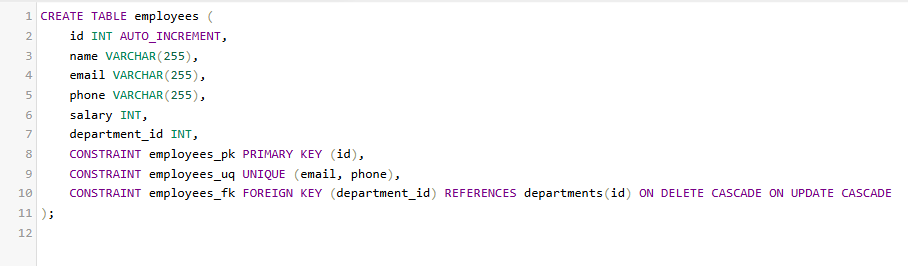
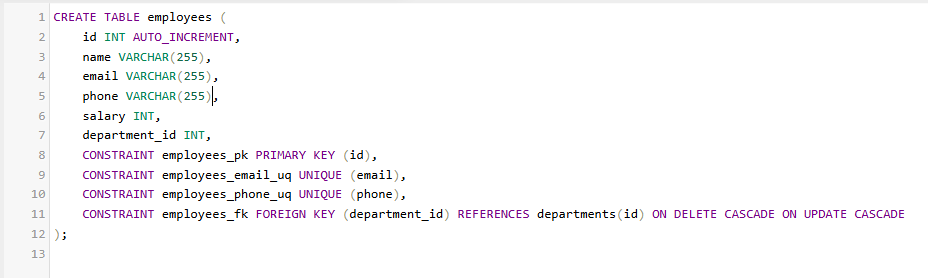
Employees Functionalities [list (in index.php File), Edit, Delete, Add] ==> Done.

Changed region(s): [[0.0, 0.3308, 0.9868, 0.9323], [0.0308, 0.1203, 0.2775, 0.3008], [0.0308, 0.0301, 0.2467, 0.0902]]

diff --git a/employees/edit.php b/employees/edit.php
@@ -1,0 +1,123 @@
+<?php
+// Core
+require_once "C:/xampp/htdocs/BackEnd_Projects/Demo Project/app/dbconfig.php";
+
+// UI
+require_once "C:/xampp/htdocs/BackEnd_Projects/Demo Project/shared/head.php";
+require_once "C:/xampp/htdocs/BackEnd_Projects/Demo Project/shared/navbar.php";
+
+$all_departments = "SELECT * FROM `departments`;";
+$departments = mysqli_query($con, $all_departments);
+
+
+$error_message = '';
+$no_change_message = '';
+if (isset($_GET['edit'])) {
+    $id = $_GET['edit'];
+    // Get Employee Data To Output It, To Be Edited.
+    $select_query = "SELECT * FROM `employees` WHERE `id`=$id;";
+    $select = mysqli_query($con, $select_query);
+    $row = mysqli_fetch_assoc($select);
+    // Update Employee Data
+    if (isset($_POST['update'])) {
+        $name = $_POST['name'];
+        $email = $_POST['email'];
+        $phone = $_POST['phone'];
+        $salary = $_POST['salary'];
+        $department_id = $_POST['department'];
+
+        $update_fields = [];
+        if ($row['name'] !== $name) {
+            $update_fields[] = "`name`='$name'";
+        }
+        if ($row['email'] !== $email) {
+            $update_fields[] = "`email`='$email'";
+        }
+        if ($row['phone'] !== $phone) {
+            $update_fields[] = "`phone`='$phone'";
+        }
+        if ($row['salary'] != $salary) {
+            $update_fields[] = "`salary`=$salary";
+        }
+        if ($row['department_id'] != $department_id) {
+            $update_fields[] = "`department_id`=$department_id";
+        }
+
+        if (!empty($update_fields)) {
+            $update_query = "UPDATE `employees` SET " . implode(", ", $update_fields) . " WHERE `id`=$id;";
+            try {
+                $update = mysqli_query($con, $update_query);
+                path("employees/index.php");
+            } catch (Exception $e) {
+                if (str_contains($e->getMessage(), "employees_email_uq")) {
+                    $error_message = "The Email Address $email Already In Use.";
+                } elseif (str_contains($e->getMessage(), "employees_phone_uq")) {
+                    $error_message = "The Phone Number $phone Already In Use.";
+                }
+                // Re-Fetch Employee Data In Case Of Error. 
+                $select_query = "SELECT * FROM `employees` WHERE `id`=$id;";
+                $select = mysqli_query($con, $select_query);
+                $row = mysqli_fetch_assoc($select);
+            }
+        } else {
+            $no_change_message = "No Changes Where Made.";
+        }
+    }
+}
+
+?>
+
+<!-- Form To Edit Employee -->
+<div class="container col-6 mt-5">
+    <h1 class="text-center text-light">Edit Employee</h1>
+    <?php if (!empty($no_change_message)): ?>
+        <div class="alert alert-success pt-3 pb-3"><?= $no_change_message ?></div>
+    <?php elseif (!empty($error_message)): ?>
+        <div class="alert alert-danger pt-3 pb-3"><?= $error_message ?></div>
+    <?php endif; ?>
+    <!-- Form To Edit Employee Data -->
+    <div class="card bg-dark text-light">
+        <div class="card-body">
+            <form method="POST">
+                <div class="mb-3">
+                    <label for="name" class="form-label">Name:</label>
+                    <input type="text" name="name" id="name" class="form-control" value="<?= $row['name'] ?>">
+                </div>
+                <div class="mb-3">
+                    <label for="email" class="form-label">Email:</label>
+                    <input type="text" name="email" id="email" class="form-control" value="<?= $row['email'] ?>">
+                </div>
+                <div class="mb-3">
+                    <label for="phone" class="form-label">Phone:</label>
+                    <input type="text" name="phone" id="phone" class="form-control" value="<?= $row['phone'] ?>">
+                </div>
+                <div class="mb-3">
+                    <label for="salary" class="form-label">Salary:</label>
+                    <input type="text" name="salary" id="salary" class="form-control" value="<?= $row['salary'] ?>">
+                </div>
+                <div class="mb-3">
+                    <label for="department" class="form-label">Departments:</label>
+                    <select name="department" id="department" class="form-select">
+                        <?php foreach ($departments as $idx => $dep): ?>
+                            <?php if ($row['department_id'] == $dep['id']): ?>
+                                <option selected value="<?= $dep['id'] ?>"><?= $dep['department'] ?></option>
+                            <?php else: ?>
+                                <option value="<?= $dep['id'] ?>"><?= $dep['department'] ?></option>
+                            <?php endif; ?>
+                        <?php endforeach; ?>
+                    </select>
+                </div>
+                <div class="text-center">
+                    <button class="btn btn-warning" name="update">Update</button>
+                </div>
+            </form>
+        </div>
+    </div>
+</div>
+
+<?php
+
+require_once "C:/xampp/htdocs/BackEnd_Projects/Demo Project/shared/scripts.php";
+require_once "C:/xampp/htdocs/BackEnd_Projects/Demo Project/shared/footer.php";
+
+?>

diff --git a/employees/add.php b/employees/add.php
@@ -1,0 +1,88 @@
+<?php
+// Core
+require_once "C:/xampp/htdocs/BackEnd_Projects/Demo Project/app/dbconfig.php";
+
+// UI
+require_once "C:/xampp/htdocs/BackEnd_Projects/Demo Project/shared/head.php";
+require_once "C:/xampp/htdocs/BackEnd_Projects/Demo Project/shared/navbar.php";
+
+// Add Employee
+
+$all_departments = "SELECT * FROM `departments`;";
+$departments = mysqli_query($con, $all_departments);
+
+$success_message = '';
+$error_message = '';
+
+if (isset($_POST['submit'])) {
+    $name = $_POST['name'];
+    $email = $_POST['email'];
+    $phone = $_POST['phone'];
+    $salary = $_POST['salary'];
+    $department_id = $_POST['department'];
+    $insert_query = "INSERT INTO `employees` VALUES (NULL, '$name', '$email', '$phone', $salary, $department_id)";
+    try {
+        $insert = mysqli_query($con, $insert_query);
+        $success_message = "$name Added Successfully.";
+    } catch (Exception $e) {
+        $error_message = $e->getMessage();
+        if (str_contains($error_message, "employees_email_uq")) {
+            $error_message = "The Email Address $email Already In Use.";
+        } elseif (str_contains($error_message, "employees_phone_uq")) {
+            $error_message = "The Phone Number $phone Already In Use.";
+        }
+    }
+}
+
+?>
+
+<div class="container col-6 mt-5">
+    <h1 class="text-center text-light">Add New Employee</h1>
+    <!-- PHP Conditions After Submiting The Form To Output The Message Either Success Or Failing -->
+    <?php if (!empty($success_message)): ?>
+        <div class="alert alert-success pt-3 pb-3"><?= $success_message ?></div>
+    <?php elseif (!empty($error_message)): ?>
+        <div class="alert alert-danger pt-3 pb-3"><?= $error_message ?></div>
+    <?php endif; ?>
+    <!-- Form To Add New Department -->
+    <div class="card bg-dark text-light">
+        <div class="card-body">
+            <form method="POST">
+                <div class="mb-3">
+                    <label for="name" class="form-label">Name:</label>
+                    <input type="text" placeholder="Name" name="name" id="name" class="form-control">
+                </div>
+                <div class="mb-3">
+                    <label for="email" class="form-label">Email:</label>
+                    <input type="email" placeholder="Email" name="email" id="email" class="form-control">
+                </div>
+                <div class="mb-3">
+                    <label for="phone" class="form-label">Phone:</label>
+                    <input type="phone" placeholder="Phone" name="phone" id="phone" class="form-control">
+                </div>
+                <div class="mb-3">
+                    <label for="salary" class="form-label">Salary:</label>
+                    <input type="number" placeholder="Salary" name="salary" id="salary" class="form-control">
+                </div>
+                <div class="mb-3">
+                    <label for="department" class="form-label">Department:</label>
+                    <select name="department" id="department" class="form-select">
+                        <?php foreach ($departments as $dep): ?>
+                            <option value="<?= $dep['id'] ?>"><?= $dep['department'] ?></option>
+                        <?php endforeach; ?>
+                    </select>
+                </div>
+                <div class="text-center">
+                    <button class="btn btn-primary" name="submit">Submit</button>
+                </div>
+            </form>
+        </div>
+    </div>
+</div>
+
+<?php
+
+require_once "C:/xampp/htdocs/BackEnd_Projects/Demo Project/shared/scripts.php";
+require_once "C:/xampp/htdocs/BackEnd_Projects/Demo Project/shared/footer.php";
+
+?>

diff --git a/department/edit.php b/department/edit.php
@@ -8,19 +8,38 @@ require_once "C:/xampp/htdocs/BackEnd_Projects/Demo Project/shared/head.php";
 require_once "C:/xampp/htdocs/BackEnd_Projects/Demo Project/shared/navbar.php";
 
 // Update Department
+$error_message = '';
+$no_change_message = '';
 if (isset($_GET['edit'])) {
-    // Get Requested Department Data
+    // Get Department Data To Output It, To Be Edited.
     $id = $_GET['edit'];
     $select_query = "SELECT * FROM `departments` WHERE `id`=$id;";
     $select = mysqli_query($con, $select_query);
-    $department_name = mysqli_fetch_assoc($select)['department'];
+    $row = mysqli_fetch_assoc($select);
     // Update Department Data
     if (isset($_POST['update'])) {
         $department_name = $_POST['department'];
-        $update_query = "UPDATE `departments` SET `department`='$department_name' WHERE `id`=$id;";
-        $update = mysqli_query($con, $update_query);
-        if ($update) {
-            path("department/index.php");
+        // $update_query = "UPDATE `departments` SET `department`='$department_name' WHERE `id`=$id;";
+
+        $update_fields = [];
+        if ($department_name !== $row['department']) {
+            $update_fields[] = "`department`=$department_name";
+        }
+
+        if (!empty($update_fields)) {
+            $update_query = "UPDATE `departments` SET " . implode(", ", $update_fields) . " WHERE `id`=$id";
+            try {
+                $update = mysqli_query($con, $update_query);
+                path("department/index.php");
+            } catch (Exception $e) {
+                $error_message = "$department_name Department Already Added.";
+                // Re-Fetch Department Data In Case Of Failure
+                $select_query = "SELECT * FROM `departments` WHERE `id`=$id;";
+                $select = mysqli_query($con, $select_query);
+                $department_name = mysqli_fetch_assoc($select)['department'];
+            }
+        } else {
+            $no_change_message = "No Changes Where Made.";
         }
     }
 }
@@ -29,13 +48,18 @@ if (isset($_GET['edit'])) {
 
 <div class="container col-6 mt-5">
     <h1 class="text-center text-light">Update Department</h1>
+    <?php if (!empty($no_change_message)): ?>
+        <div class="alert alert-success pt-3 pb-3"><?= $no_change_message ?></div>
+    <?php elseif (!empty($error_message)): ?>
+        <div class="alert alert-danger pt-3 pb-3"><?= $error_message ?></div>
+    <?php endif; ?>
     <!-- Form To Update Department -->
     <div class="card bg-dark text-light">
         <div class="card-body">
             <form method="POST">
                 <div class="mb-3">
                     <label for="department" class="form-label">Update Department</label>
-                    <input type="text" name="department" id="department" class="form-control" value="<?= $department_name ?>">
+                    <input type="text" placeholder="Department Name" name="department" id="department" class="form-control" value="<?= $row['department'] ?>">
                 </div>
                 <div class="text-center">
                     <button class="btn btn-warning" name="update">Update</button>

diff --git a/employees/index.php b/employees/index.php
@@ -1,0 +1,71 @@
+<?php
+// Core
+require_once "C:/xampp/htdocs/BackEnd_Projects/Demo Project/app/dbconfig.php";
+require_once "C:/xampp/htdocs/BackEnd_Projects/Demo Project/app/functions.php";
+
+// UI
+require_once "C:/xampp/htdocs/BackEnd_Projects/Demo Project/shared/head.php";
+require_once "C:/xampp/htdocs/BackEnd_Projects/Demo Project/shared/navbar.php";
+
+// Deleting A Employee
+if (isset($_GET['delete'])) {
+    $id = $_GET['delete'];
+    $delete_query = "DELETE FROM `employees` WHERE `id` = $id;";
+    $delete = mysqli_query($con, $delete_query);
+    if ($delete) {
+        path("department/index.php");
+    }
+}
+
+
+$select_query = "SELECT * FROM `employees_departments`";
+$select = mysqli_query($con, $select_query);
+
+?>
+
+<div class="container col-10 mt-5">
+    <h1 class="text-center text-light">All Departments</h1>
+    <?php if (!empty($success_message)): ?>
+        <div class="alert alert-success"><?= $success_message ?></div>
+    <?php endif; ?>
+    <div class="card bg-dark text-light">
+        <div class="card-body table-responsive">
+            <table class="table table-dark">
+                <thead>
+                    <tr>
+                        <th>#</th>
+                        <th>Name</th>
+                        <th>Email</th>
+                        <th>Phone</th>
+                        <th>Salary</th>
+                        <th>Department</th>
+                        <th>Action</th>
+                    </tr>
+                </thead>
+                <tbody>
+                    <?php foreach ($select as $index => $emp): ?>
+                        <tr>
+                            <td><?= ($index + 1) ?></td>
+                            <td><?= $emp['name'] ?></td>
+                            <td><?= $emp['email'] ?></td>
+                            <td><?= $emp['phone'] ?></td>
+                            <td><?= $emp['salary'] ?></td>
+                            <td><?= $emp['department'] ?></td>
+                            <td>
+                                <a href="edit.php?edit=<?= $emp['id'] ?>" class="btn btn-warning">Edit</a>
+                                <a href="?delete=<?= $emp['id'] ?>" class="btn btn-danger">Delete</a>
+                            </td>
+                        </tr>
+                    <?php endforeach; ?>
+                </tbody>
+            </table>
+        </div>
+    </div>
+</div>
+
+<?php
+
+require_once "C:/xampp/htdocs/BackEnd_Projects/Demo Project/shared/scripts.php";
+require_once "C:/xampp/htdocs/BackEnd_Projects/Demo Project/shared/footer.php";
+
+?>

diff --git a/department/add.php b/department/add.php
@@ -25,9 +25,9 @@ if (isset($_POST['submit'])) {
 <div class="container col-6 mt-5">
     <h1 class="text-center text-light">Add New Department</h1>
     <!-- PHP Conditions After Submiting The Form To Output The Message Either Success Or Failing -->
-    <?php if (!empty($success_message) && empty($error_message)): ?>
+    <?php if (!empty($success_message)): ?>
         <div class="alert alert-success pt-3 pb-3"><?= $success_message ?></div>
-    <?php elseif (!empty($error_message)  && empty($success_message)): ?>
+    <?php elseif (!empty($error_message)): ?>
         <div class="alert alert-danger pt-3 pb-3"><?= $error_message ?></div>
     <?php endif; ?>
     <!-- Form To Add New Department -->
@@ -36,7 +36,7 @@ if (isset($_POST['submit'])) {
             <form method="POST">
                 <div class="mb-3">
                     <label for="department" class="form-label">Department Name:</label>
-                    <input type="text" name="department" id="department" class="form-control">
+                    <input type="text" placeholder="Department Name" name="department" id="department" class="form-control">
                 </div>
                 <div class="text-center">
                     <button class="btn btn-primary" name="submit">Submit</button>

diff --git a/shared/navbar.php b/shared/navbar.php
@@ -14,7 +14,7 @@ require_once "C:/xampp/htdocs/BackEnd_Projects/Demo Project/app/functions.php";
             <div class="collapse navbar-collapse" id="navbarSupportedContent">
                 <ul class="navbar-nav ms-auto mb-2 mb-lg-0">
                     <li class="nav-item">
-                        <a class="nav-link active" aria-current="page" href="#">Home</a>
+                        <a class="nav-link active" aria-current="page" href="<?= url("index.php") ?>">Home</a>
                     </li>
                     <li class="nav-item">
                         <a class="nav-link" href="#">Link</a>
@@ -38,7 +38,7 @@ require_once "C:/xampp/htdocs/BackEnd_Projects/Demo Project/app/functions.php";
                         </a>
                         <ul class="dropdown-menu">
                             <li><a class="dropdown-item" href="<?= url("employees/add.php") ?>">Add Employee</a></li>
-                            <li><a class="dropdown-item" href="#">Another action</a></li>
+                            <li><a class="dropdown-item" href="<?= url("employees/index.php") ?>">List All Employees</a></li>
                             <li>
                                 <hr class="dropdown-divider">
                             </li>
